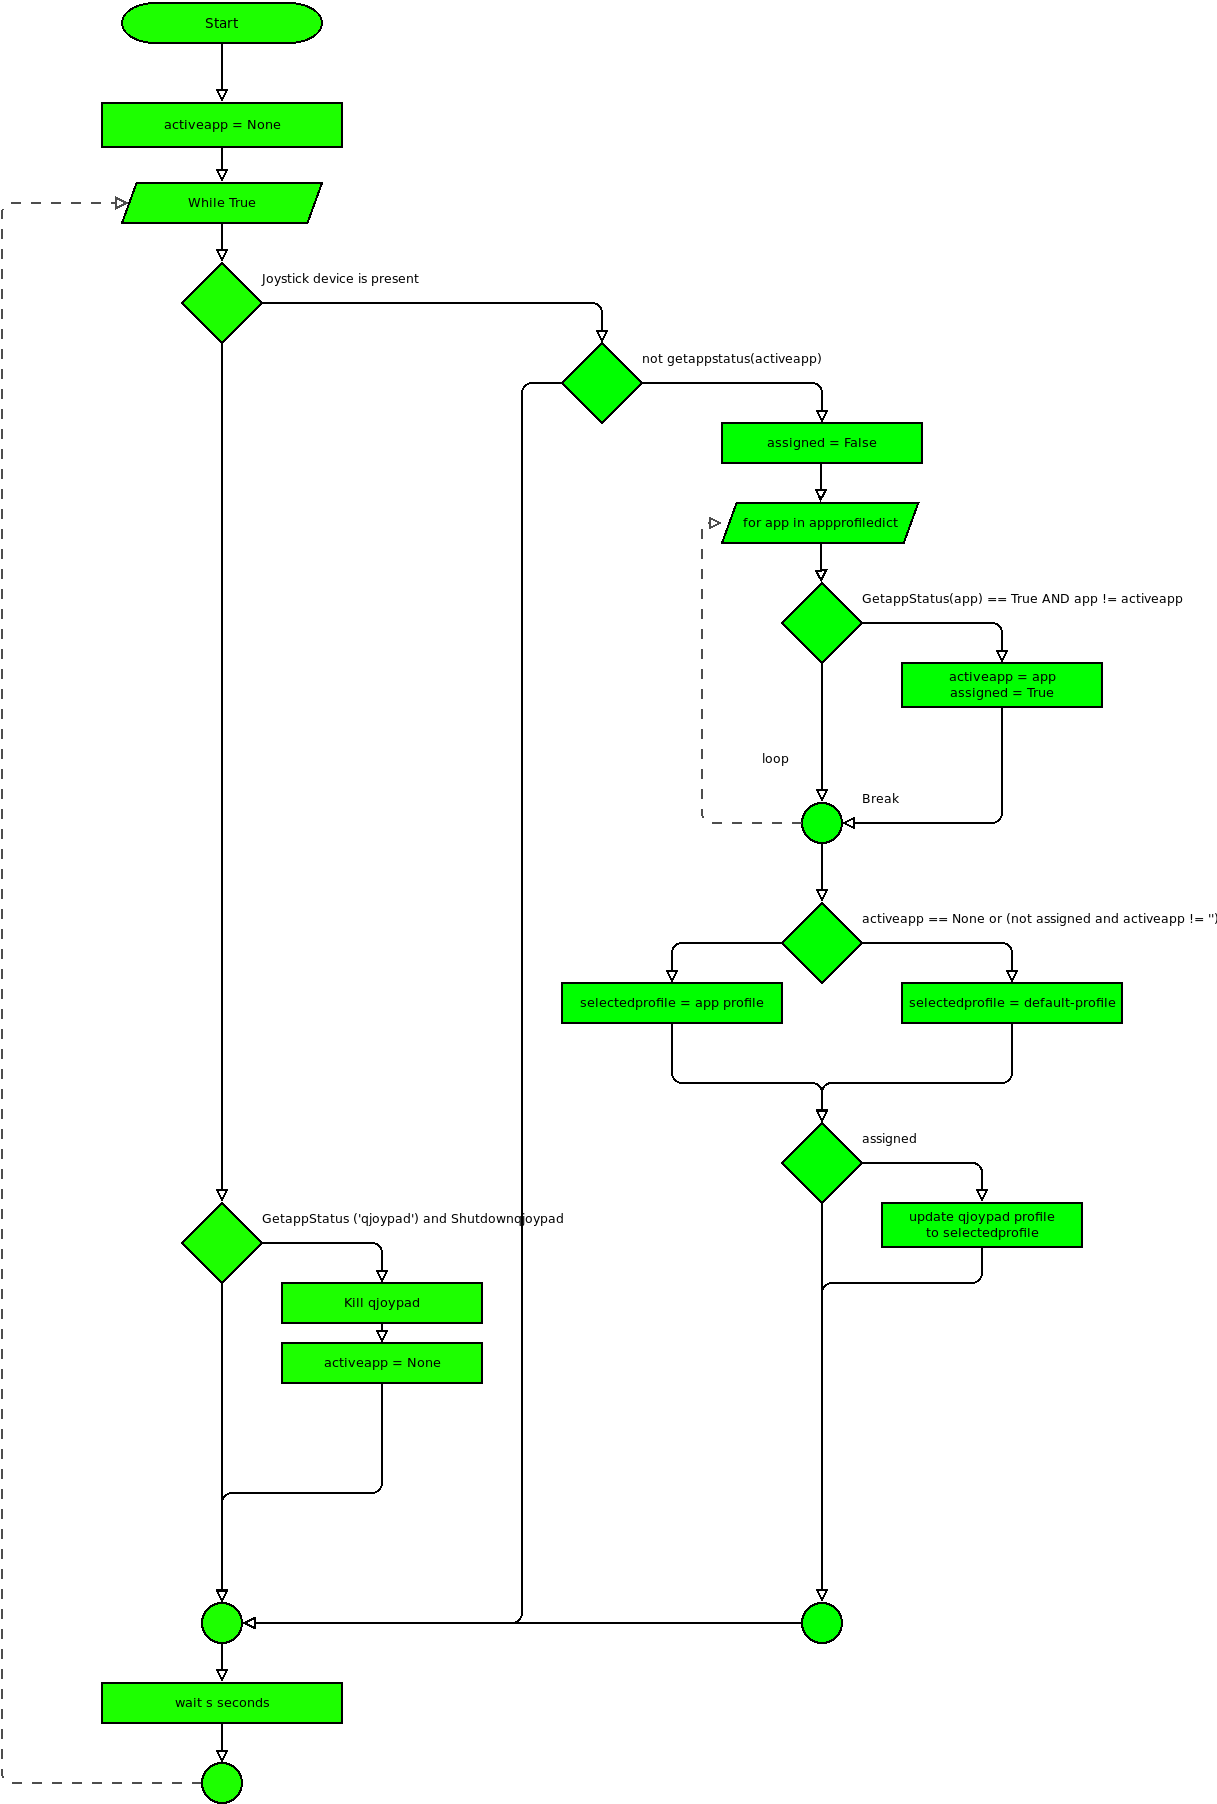
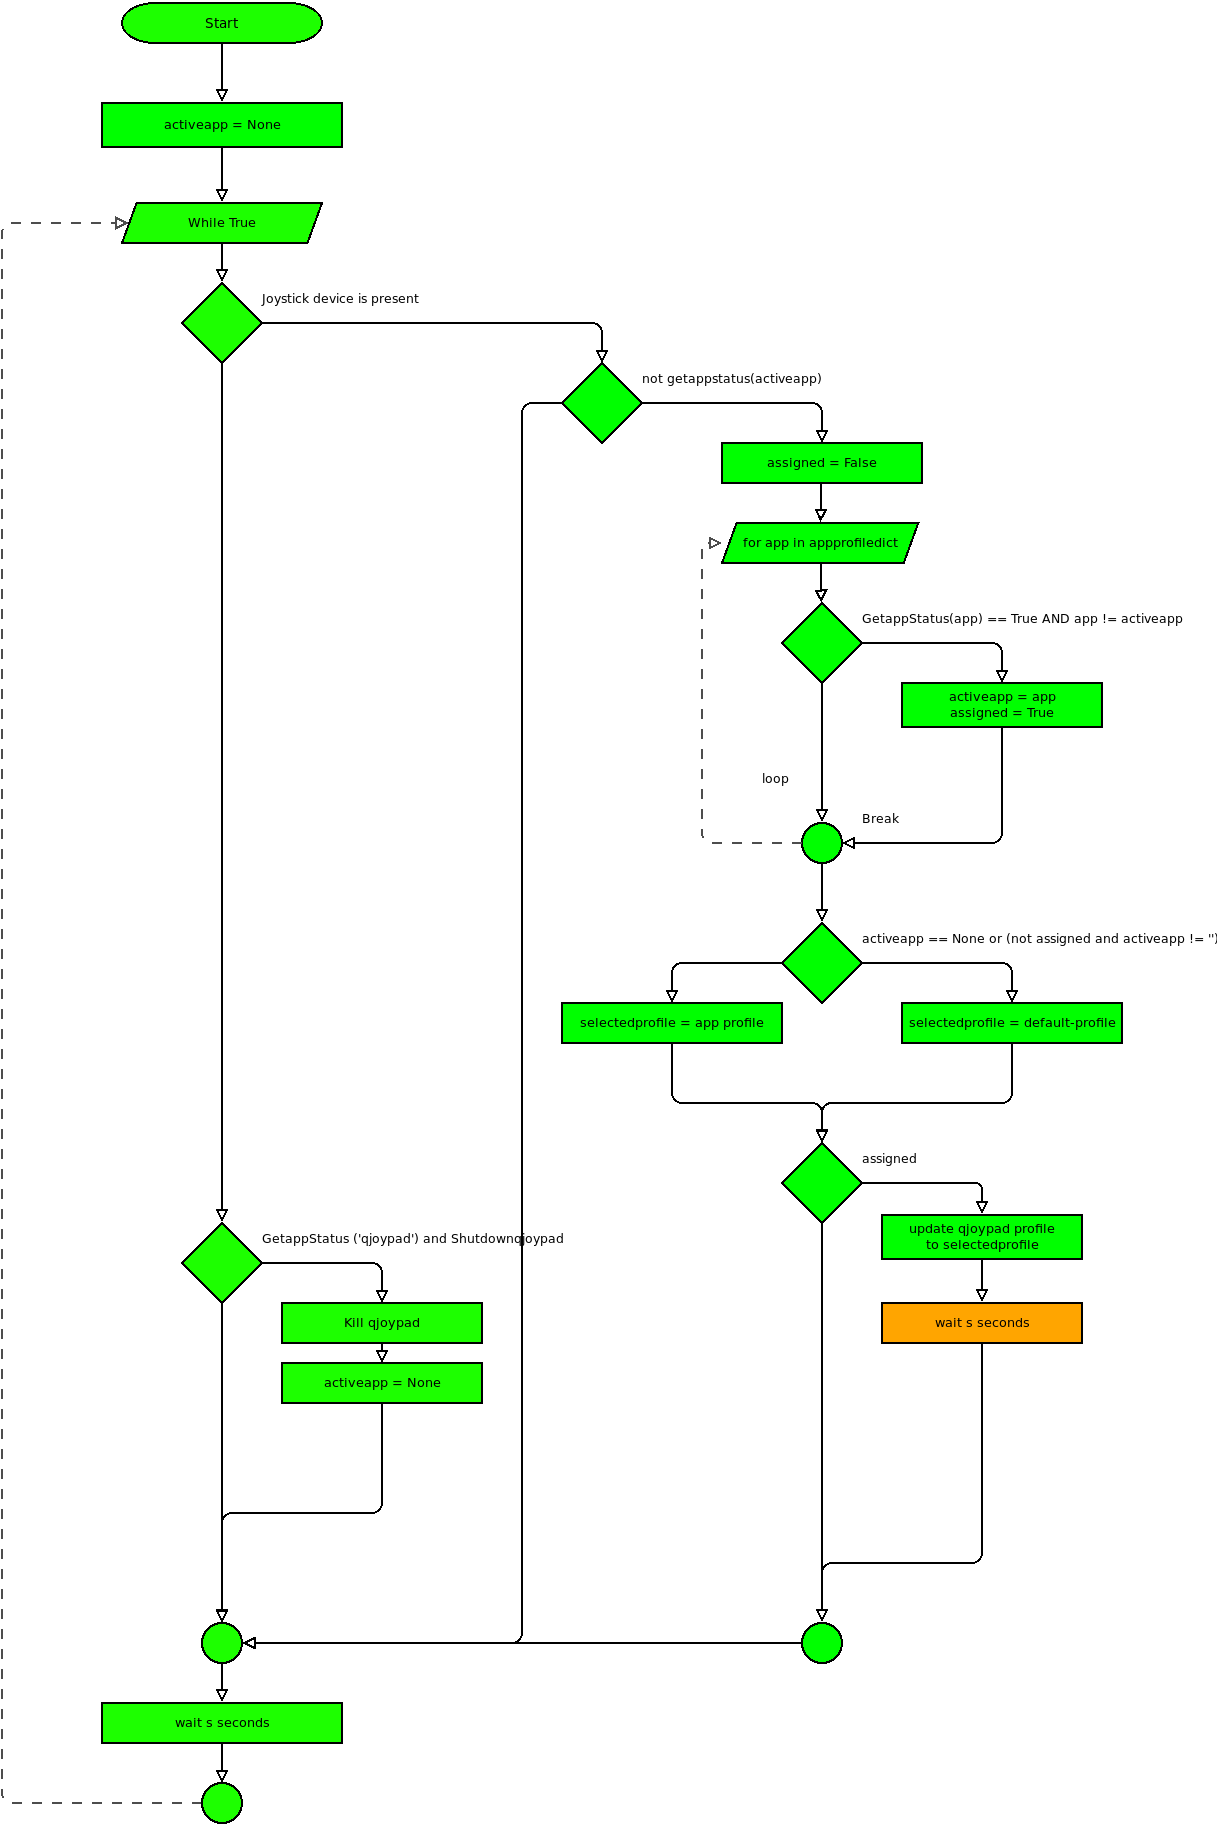
added a wait time after launching qjoypad #2 Issue

diff --git a/qjoypad-autoprofile-switcher.py b/qjoypad-autoprofile-switcher.py
@@ -72,6 +72,7 @@ if __name__ == '__main__':
 					cmdline = ' '.join([qjoypad,selectprofile]) + ' &'
 					os.system (cmdline)
 					#print ('Changed qjoypad profile: {}'.format(cmdline))
+					time.sleep (sleepseconds)
 		else:
 			#print ('No joystick is attached.')
 			if getappstatus ([qjoypad]) and Shutdownqjoypad:
